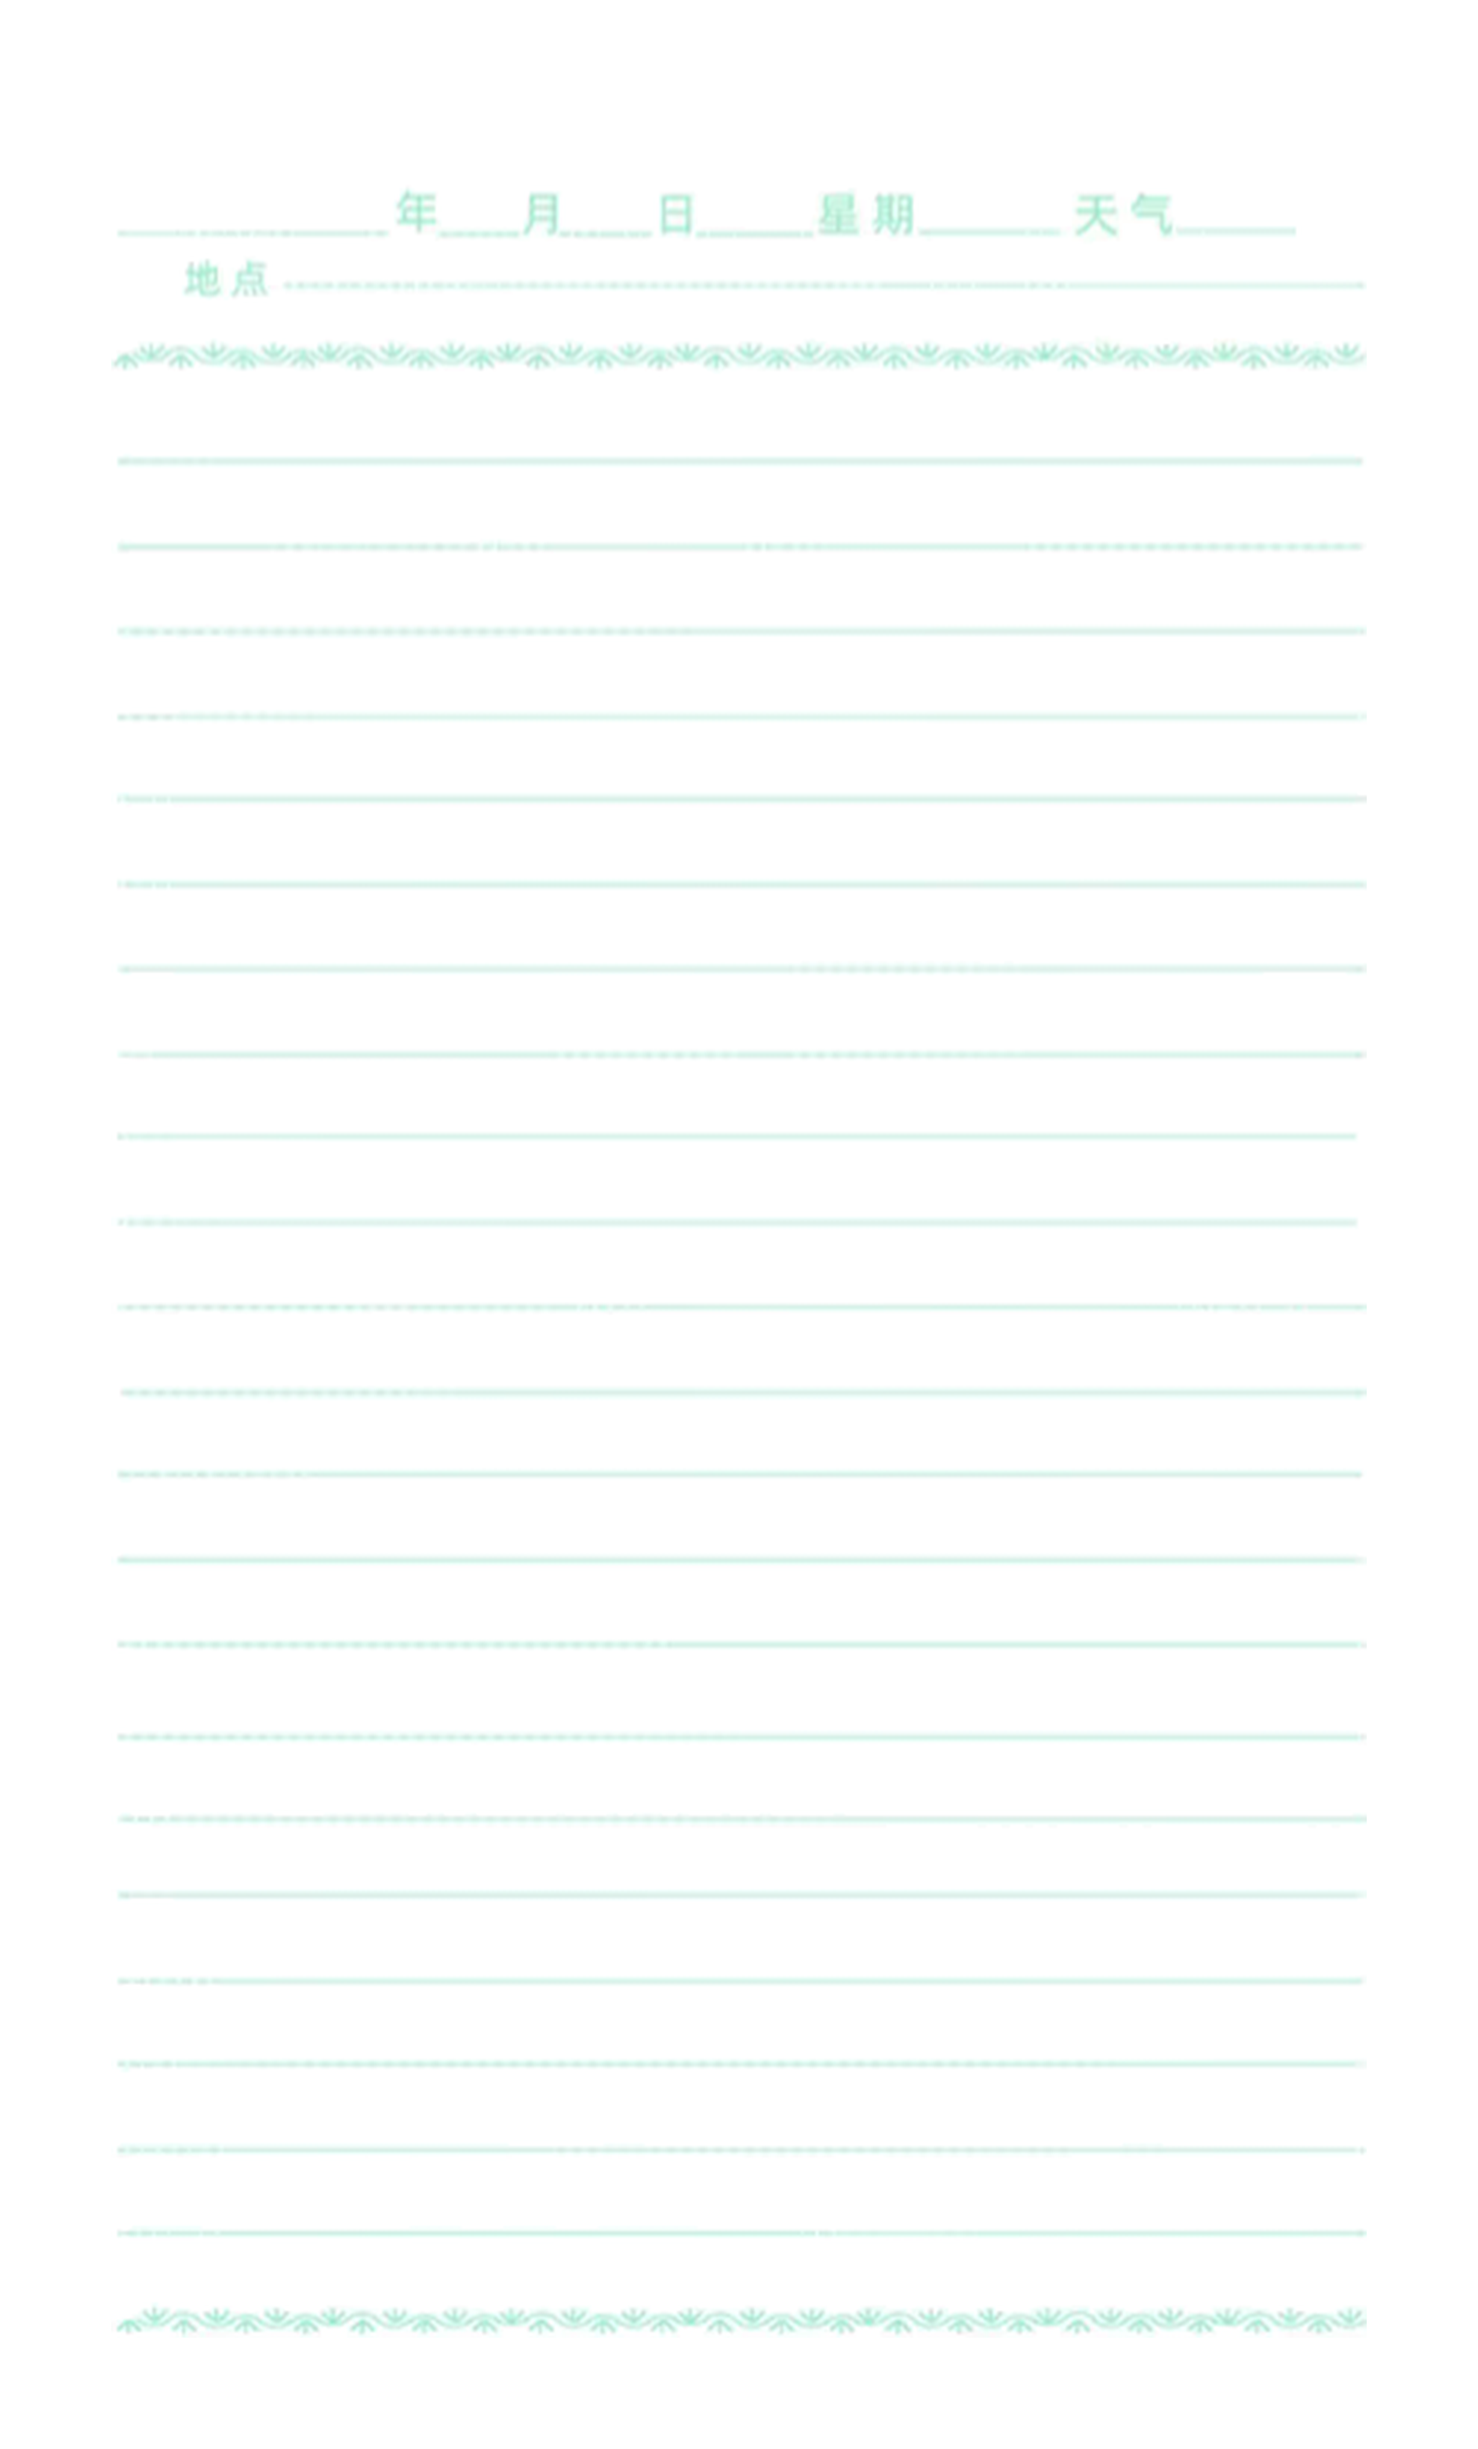
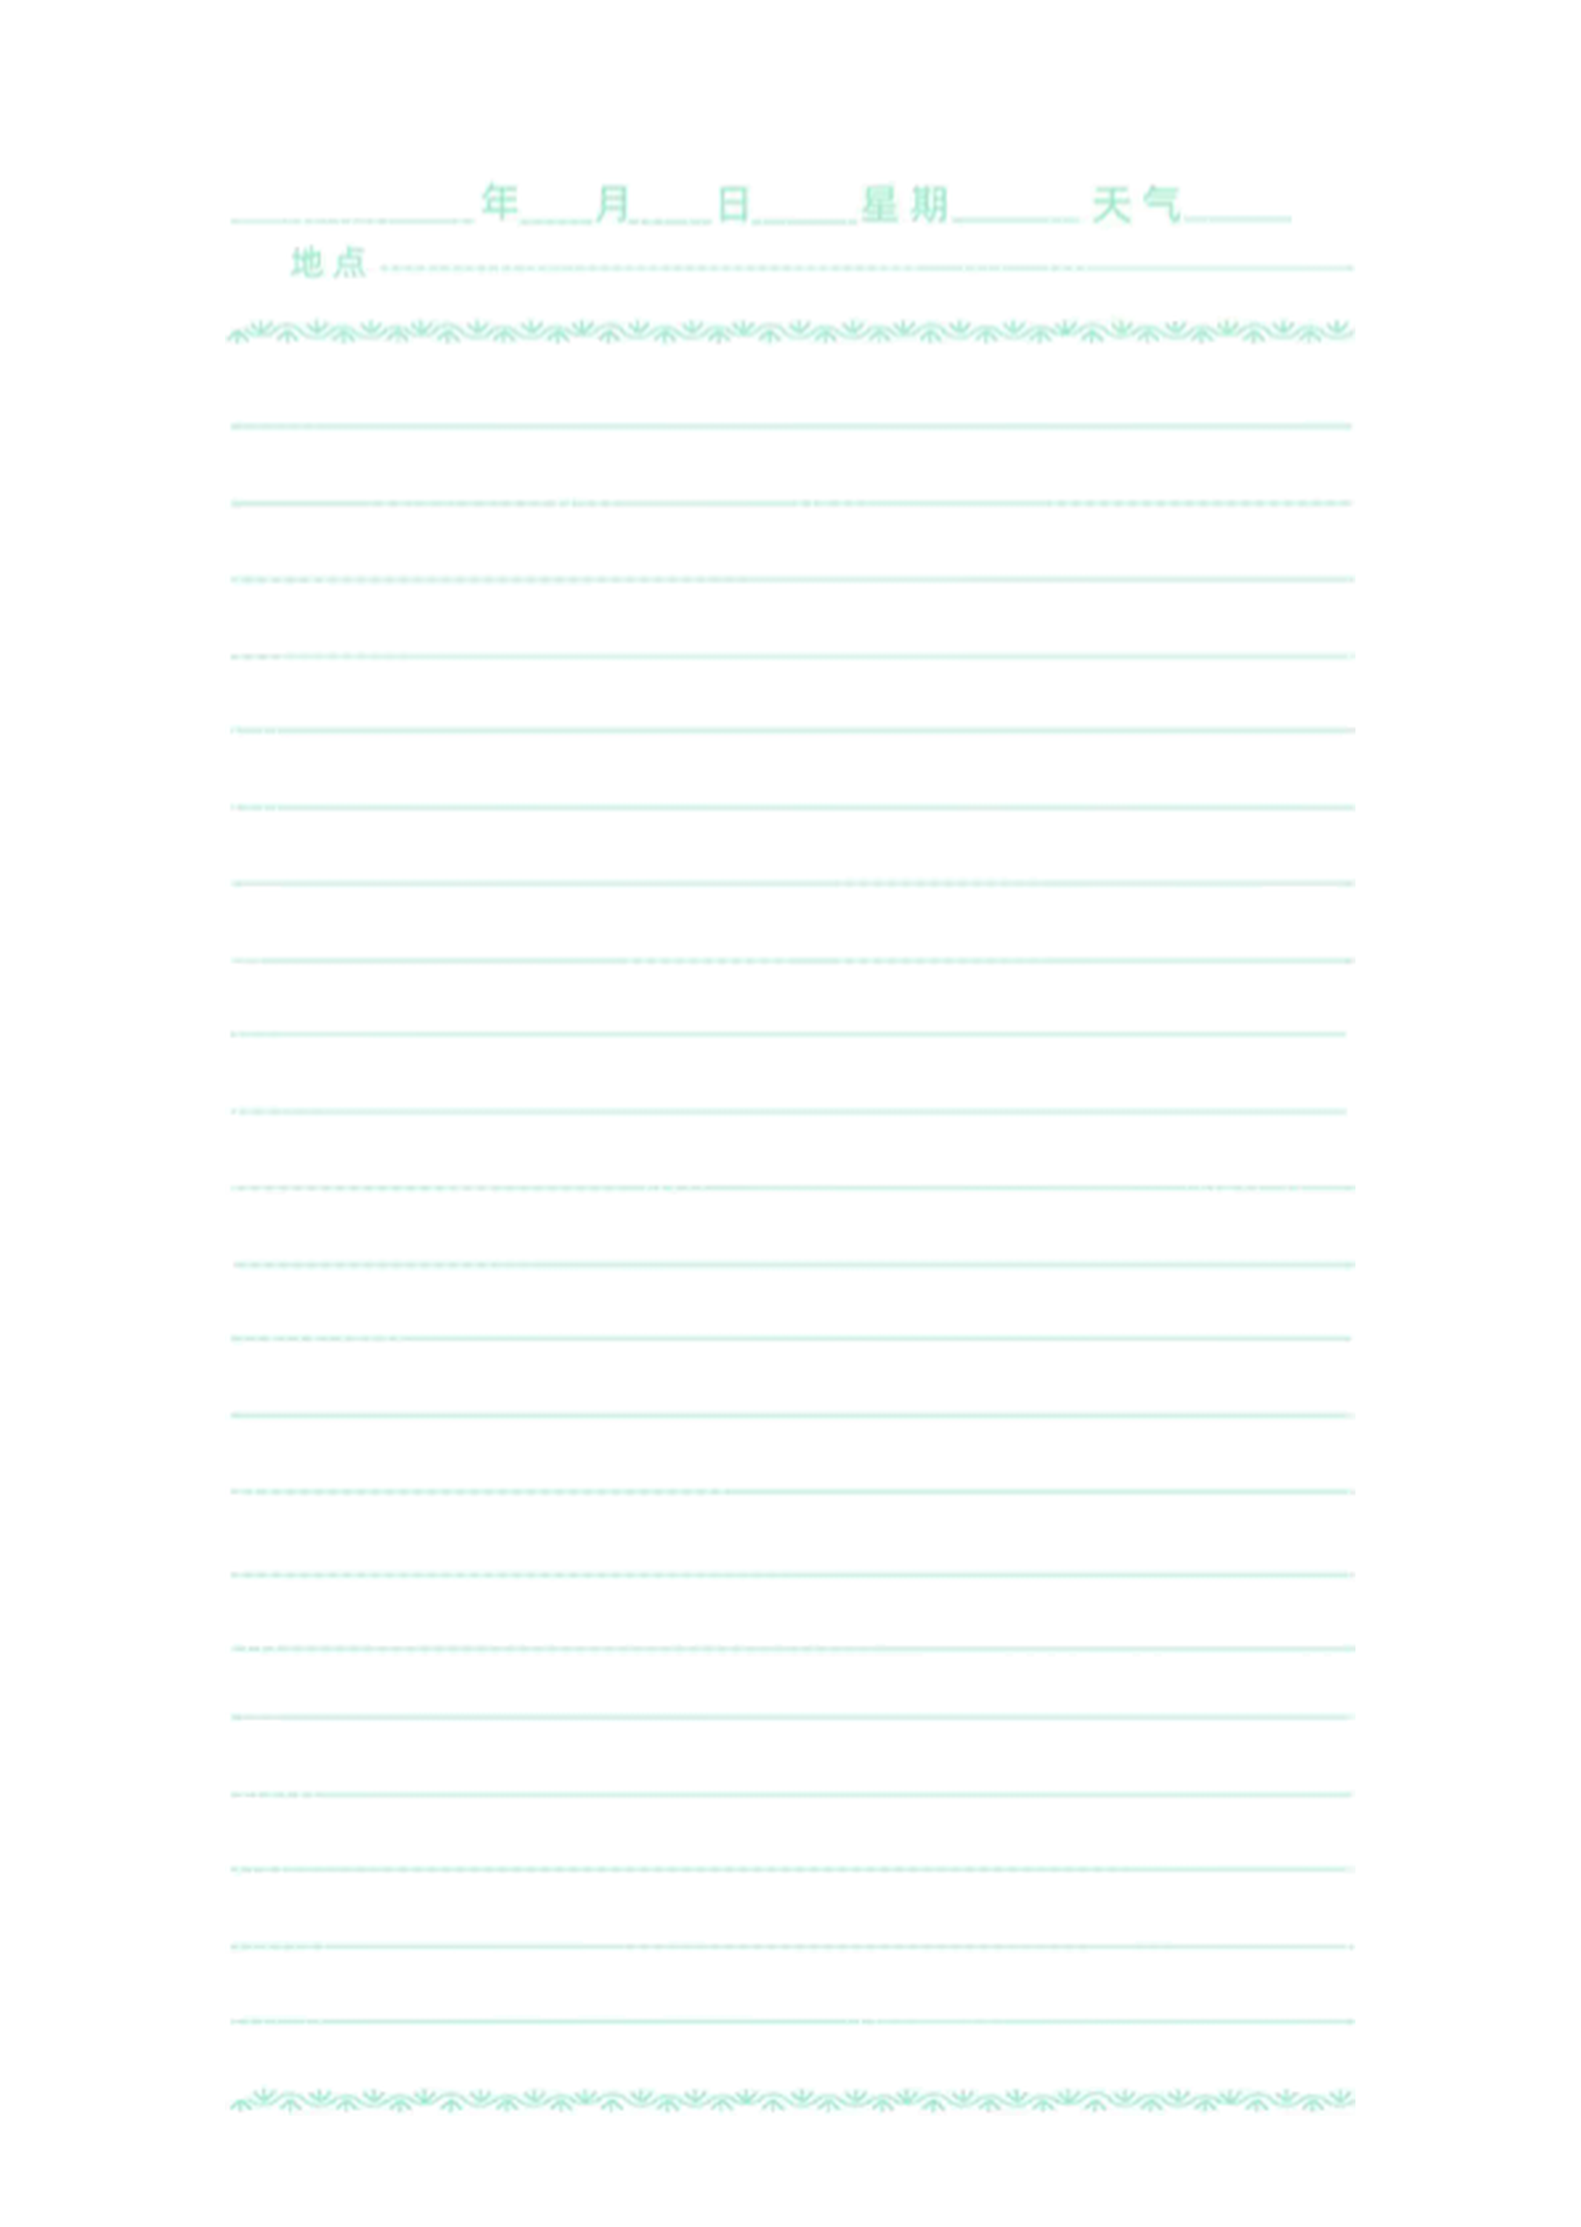
prompt(pages): refactor field note image processing to B6 canvas and reformat pile layouts
WHAT: Replace content-fitted canvas with standardized B6 canvas (125:176) for riso printing workflow; reformat page-01 pile array for compactness.

WHY: B6 proportion provides consistent print output; compact layout definition improves maintainability.

HOW: process_field_notes.py centers content on fixed B6 canvas with proportional padding instead of fitting canvas to content. page-01 pile array reformatted from expanded multi-line to compact single-line style (identical data). page-00 marginBottom set to 0.05 for consistent vertical rhythm. New page-127 added to pages index.

diff --git a/src/ts/pages/index.ts b/src/ts/pages/index.ts
@@ -3,5 +3,6 @@ import page01 from "./page-01";
 import page02 from "./page-02";
 import page03 from "./page-03";
 import page04 from "./page-04";
+import page127 from "./page-127";
 
-export const pages = [page00, page01, page02, page03, page04];
+export const pages = [page00, page01, page02, page03, page04, page127];

diff --git a/src/ts/pages/page-127.ts b/src/ts/pages/page-127.ts
@@ -1,0 +1,11 @@
+import type { PageConfig } from "../lib/types";
+
+const page: PageConfig = {
+  id: "page-127",
+  toTraditional: true,
+  inkBleedRadius: 0,
+  left: {},
+  right: {},
+};
+
+export default page;

diff --git a/src/ts/pages/page-00.ts b/src/ts/pages/page-00.ts
@@ -19,7 +19,7 @@ const page: PageConfig = {
     page: "both",
     marginX: 0.05,
     marginTop: 0.05,
-    marginBottom: 0,
+    marginBottom: 0.05,
     halftone: {
       spacing: 4,
       maxDotSize: 2,

diff --git a/resources/field_notes/process_field_notes.py b/resources/field_notes/process_field_notes.py
@@ -52,38 +52,52 @@ def extract_content(path):
     return Image.fromarray(result)
 
 
-def process(inputs, margin_ratio=0.05, target_min_long_side=3840):
+def process(inputs, margin_ratio=0.05, target_long_side=3840):
     """
-    保持原图比例，但将长边放大到 3840px (4K)。
-    四周添加基于长边比例的白边。
+    将内容等比缩放后居中放置在标准 B6 比例画布（125:176）上。
+    画布长边固定为 3840px (4K)，四周补白边。
     """
+    # B6 短边:长边 = 125:176
+    B6_SHORT = 125
+    B6_LONG = 176
+
     contents = [extract_content(p) for p in inputs]
 
     output_paths = []
     for path, content in zip(inputs, contents):
         w, h = content.size
 
-        # 计算放大倍率，使长边达到 3840
-        upscale = max(1.0, target_min_long_side / max(w, h))
+        # 根据内容方向确定 B6 画布尺寸（竖向/横向）
+        if h >= w:
+            # 竖向：高为长边
+            canvas_h = target_long_side
+            canvas_w = round(target_long_side * B6_SHORT / B6_LONG)
+        else:
+            # 横向：宽为长边
+            canvas_w = target_long_side
+            canvas_h = round(target_long_side * B6_SHORT / B6_LONG)
 
-        new_w, new_h = int(w * upscale), int(h * upscale)
+        # 内容可用区域（扣除四周边距）
+        pad = round(target_long_side * margin_ratio)
+        avail_w = canvas_w - 2 * pad
+        avail_h = canvas_h - 2 * pad
+
+        # 等比缩放内容以填入可用区域
+        scale = min(avail_w / w, avail_h / h)
+        new_w, new_h = round(w * scale), round(h * scale)
         content = content.resize((new_w, new_h), Image.Resampling.LANCZOS)
 
-        # 边距 (基于 4K 尺寸的 5%)
-        pad = int(target_min_long_side * margin_ratio)
-        canvas_w, canvas_h = new_w + 2 * pad, new_h + 2 * pad
-
-        # 创建白色画布
+        # 创建白色 B6 画布，居中放置内容
         canvas = Image.new("RGB", (canvas_w, canvas_h), (255, 255, 255))
-
-        # 居中放置
-        canvas.paste(content, (pad, pad))
+        offset_x = (canvas_w - new_w) // 2
+        offset_y = (canvas_h - new_h) // 2
+        canvas.paste(content, (offset_x, offset_y))
 
         stem = path.rsplit(".", 1)[0]
         out_path = stem + "_final.png"
         canvas.save(out_path)
         print(
-            f"saved: {out_path} (Canvas: {canvas_w}x{canvas_h}, Content: {new_w}x{new_h})"
+            f"saved: {out_path} (B6 Canvas: {canvas_w}x{canvas_h}, Content: {new_w}x{new_h}, pad: {pad}px)"
         )
         output_paths.append(out_path)
 
